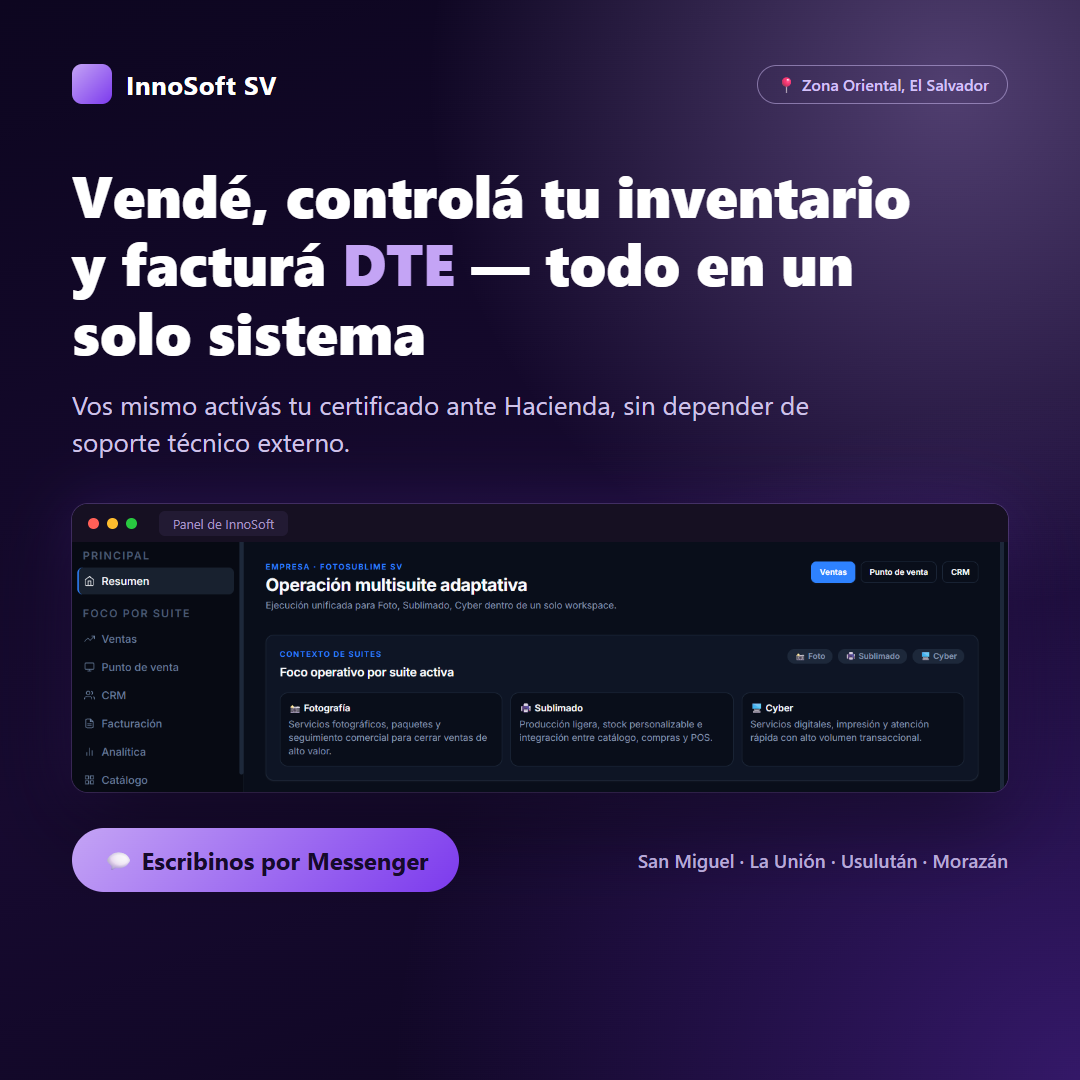
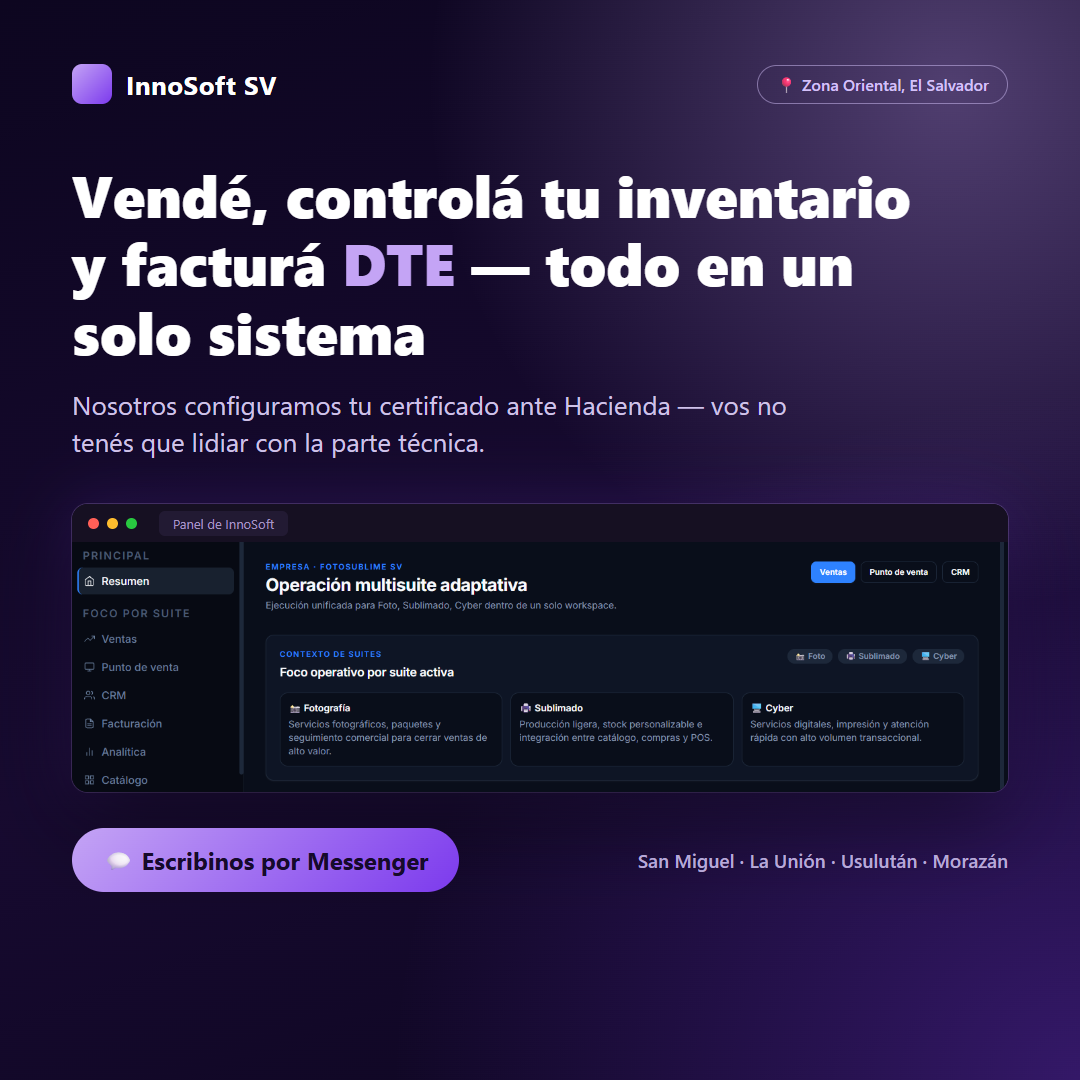
Corrige dato falso sobre certificado DTE en imagen y template
El subtitulo decia que el cliente activa su propio certificado ante
Hacienda; en la practica es el equipo de InnoSoft quien lo configura
por el cliente. Se corrige el template y se regenera la imagen usada
en post-7/post-7-ig (aun no publicados).

Claude-Session: https://claude.ai/code/session_012foHFZQQxNjBqExaTnDEHT

Changed region(s): [[0.0611, 0.3667, 0.7639, 0.4278]]

diff --git a/templates/hero-con-captura.html b/templates/hero-con-captura.html
@@ -80,7 +80,7 @@
   </div>
 
   <div class="headline">Vendé, controlá tu inventario<br>y facturá <span class="accent">DTE</span> — todo en un solo sistema</div>
-  <div class="subhead">Vos mismo activás tu certificado ante Hacienda, sin depender de soporte técnico externo.</div>
+  <div class="subhead">Nosotros configuramos tu certificado ante Hacienda — vos no tenés que lidiar con la parte técnica.</div>
 
   <div class="mockup">
     <div class="mockup-bar">

diff --git a/templates/README.md b/templates/README.md
@@ -27,3 +27,4 @@ Creadas 2026-09-09 después de que el usuario señalara (con razón) que las cap
 
 ## Historial
 - 2026-09-09: primera generación — `2026-09-10-post-erp-dte.png` (ERP/DTE, dashboard real recortado para no mostrar "$0.00"), `2026-09-10-post-couriera.png` (panel de valor de la pantalla de login de Couriera, recorte lateral), `2026-09-10-post-dte-educativo.png` (tipográfico, sin captura — la real de factura DTE mostraba "DTE: PENDING" y una lista de configuración faltante, no servía).
+- 2026-09-10: **corrección de dato falso.** El subtítulo de `hero-con-captura.html` decía "Vos mismo activás tu certificado ante Hacienda, sin depender de soporte técnico externo" — el usuario aclaró que es falso: es el equipo de InnoSoft quien configura el certificado y las credenciales de Hacienda por el cliente, porque a los clientes se les dificulta hacerlo solos. Se corrigió el subtítulo en el template (ahora hardcodeado con el mensaje correcto) y se volvió a renderizar `2026-09-10-post-erp-dte.png` con el mismo dashboard real (`2026-09-01-erp-dashboard.png`) — usado en post-7/post-7-ig, que todavía no se habían publicado. Ver `../../catalog/productos-y-servicios.md` y `../../QA-AUDIT.md` para el resto de lugares corregidos (bios de Facebook/Instagram/LinkedIn, `calendar.json`, `copy-final-lote1.md`, `strategy/`).
